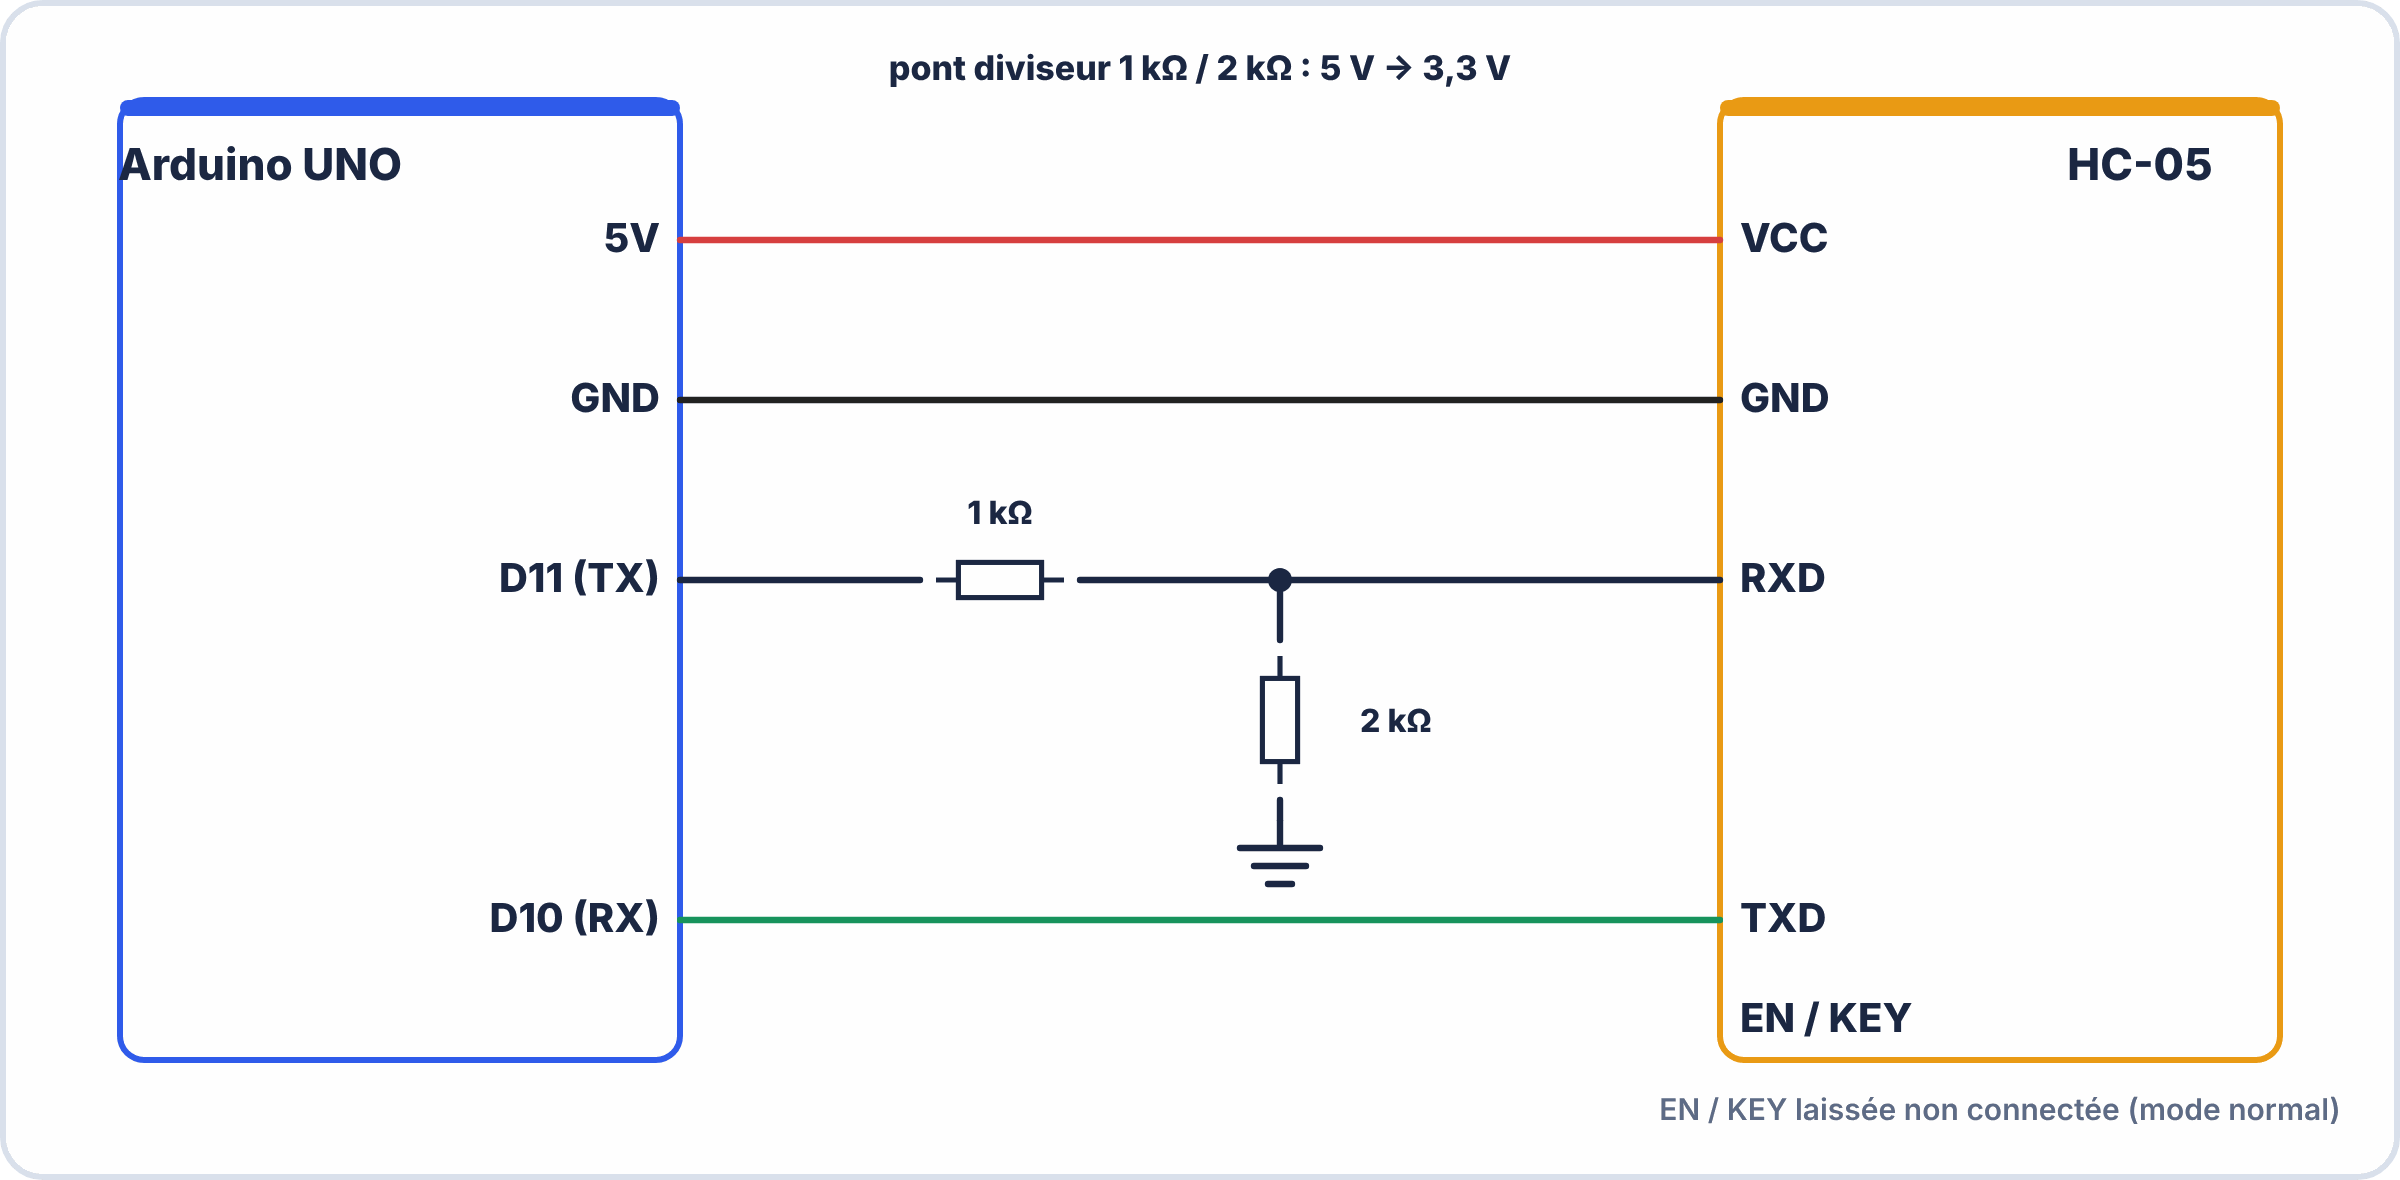
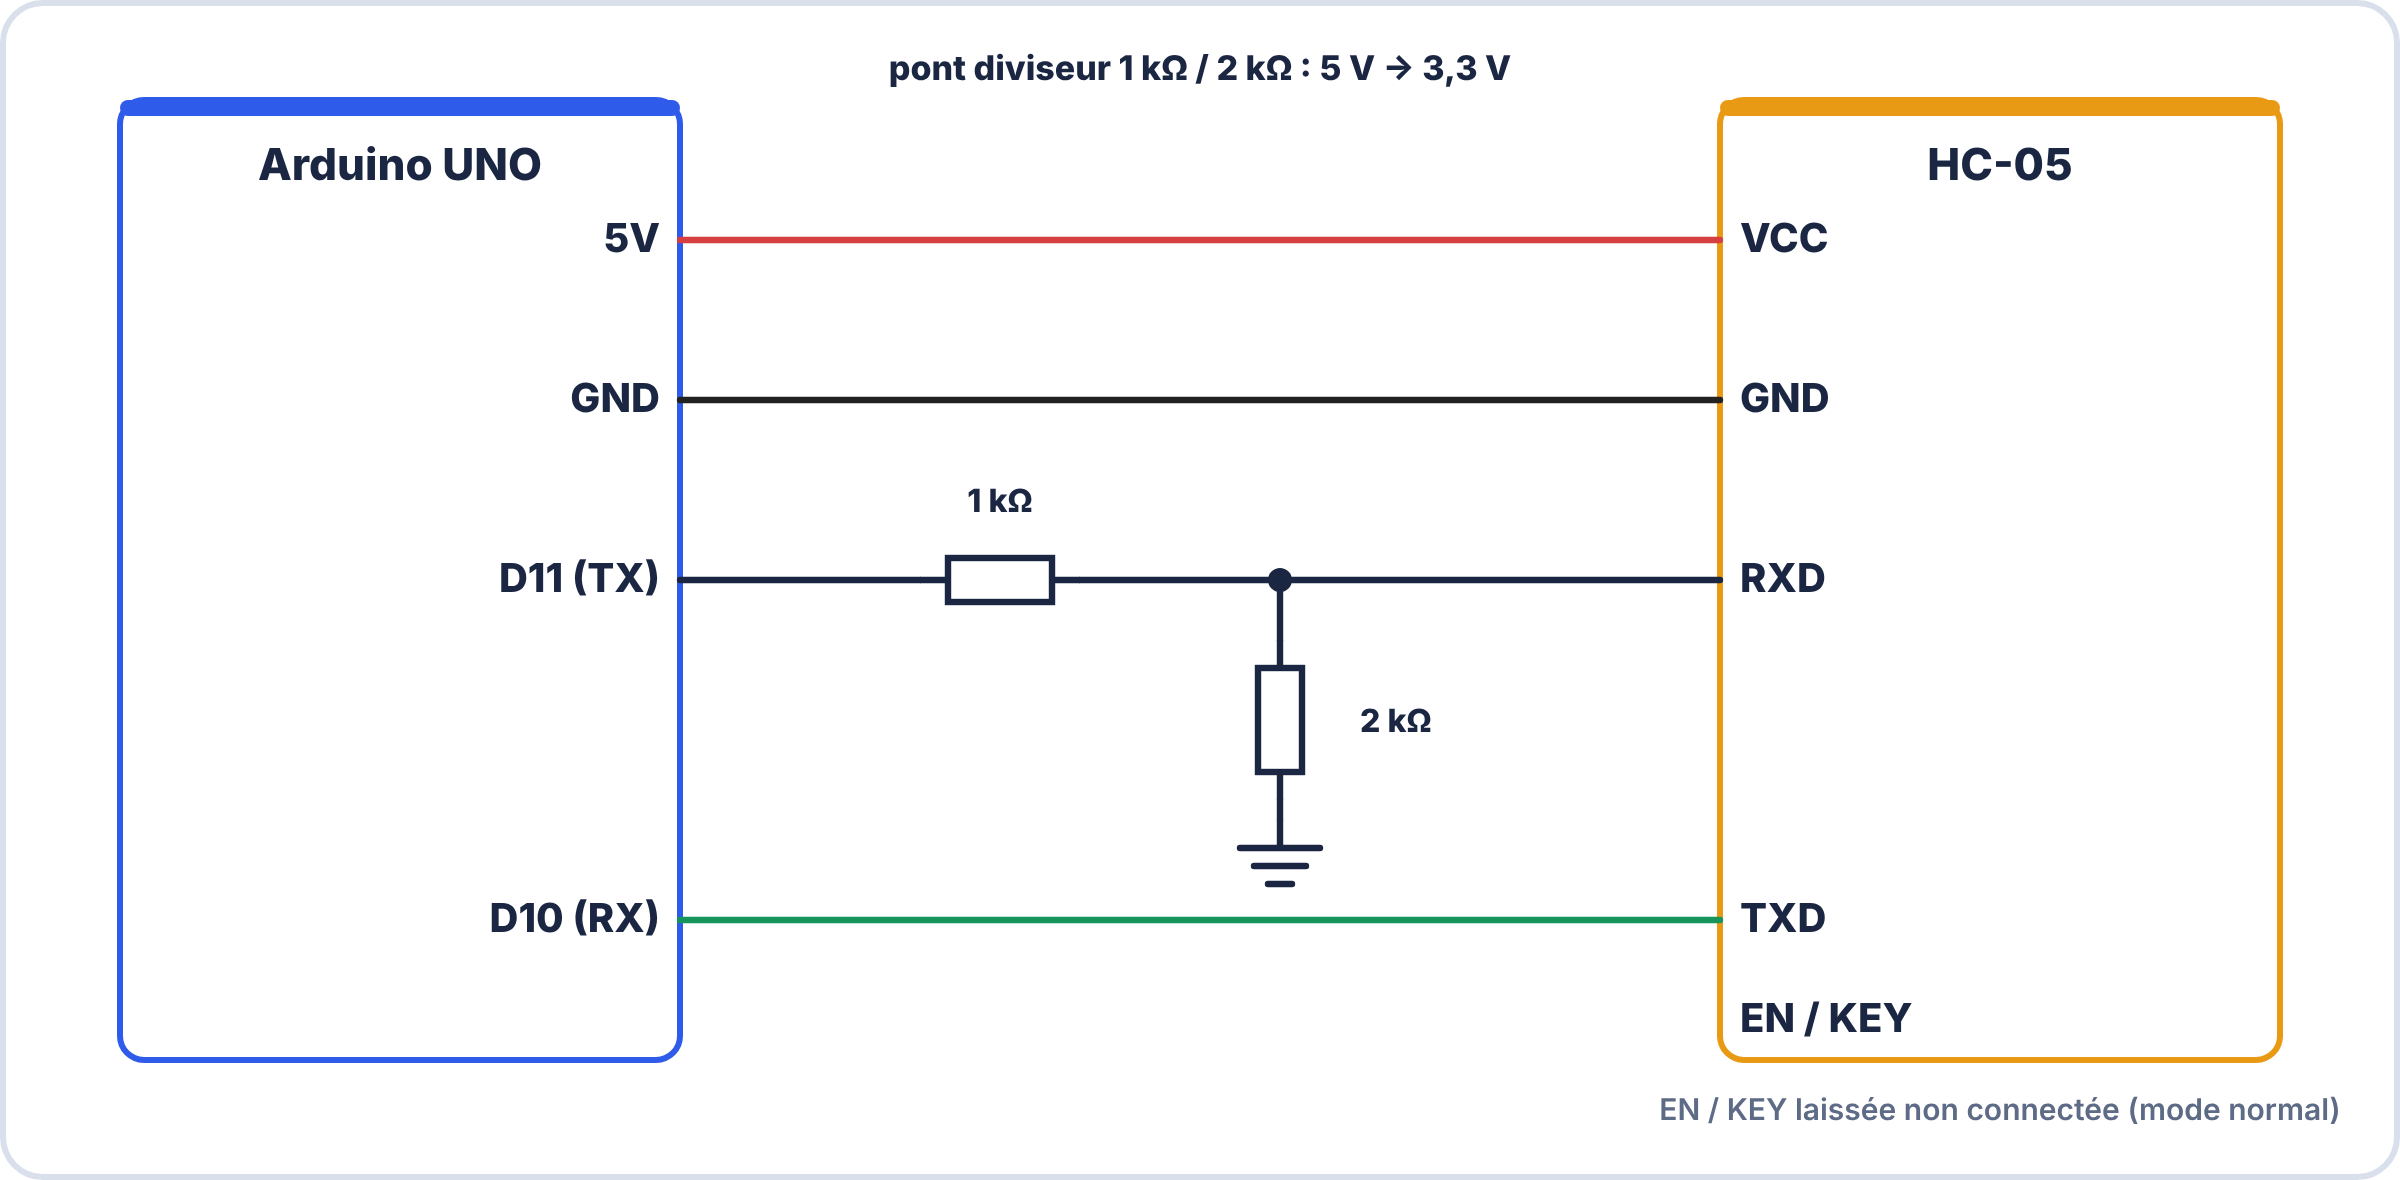
Schémas HC-05, DHT11 et domotique : résistances raccordées aux fils (broches des symboles), étiquettes recentrées
Claude-Session: https://claude.ai/code/session_018Ln2Xo12prChdSPrkdSn9D

diff --git a/outils/illustrations-e2/figs_sec2.py b/outils/illustrations-e2/figs_sec2.py
@@ -90,7 +90,7 @@ def f_dht11():
     for i in range(7): o += f'<rect x="{190+i*22}" y="130" width="12" height="90" rx="4" fill="#2878a8"/>'
     for i in range(4): o += f'<rect x="{185+i*45}" y="250" width="8" height="90" fill="url(#metalH)"/>' + badge(189 + i * 45, 365, i + 1, BLUE, 15)
     for i, l in enumerate(("VCC", "DATA", "NC", "GND")): o += T(189 + i * 45, 405, l, 14, 700, INK)
-    o += s_wire([(189, 440), (189, 480), (234, 480)]) + sym("R", 270, 480, s=0.6) + T(270, 462, "10 kΩ", 13, 700, INK) + s_wire([(306, 480), (324, 480), (324, 440)], INK, 3)
+    o += s_wire([(189, 440), (189, 480), (246, 480)]) + sym("R", 270, 480, s=0.6) + T(270, 462, "10 kΩ", 13, 700, INK) + s_wire([(294, 480), (324, 480), (324, 440)], INK, 3)
     o += T(300, 520, "résistance pull-up entre VCC et DATA", 14, 600, MUTED)
     o += f'<g filter="url(#shs)"><rect x="740" y="130" width="300" height="190" rx="8" fill="#2f9a68"/></g><rect x="800" y="150" width="120" height="110" rx="8" fill="#3b9bd6"/>'
     for i in range(5): o += f'<rect x="{818+i*20}" y="165" width="10" height="70" rx="3" fill="#2878a8"/>'
@@ -177,12 +177,12 @@ def f_moniteur():
 
 
 def f_cablage_hc05():
-    o = block(60, 50, 280, 480, "", None, BLUE) + block(860, 50, 280, 480, "", None, AMBER) + T(130, 90, "Arduino UNO", 22, 800, INK) + T(1070, 90, "HC-05", 22, 800, INK)
+    o = block(60, 50, 280, 480, "", None, BLUE) + block(860, 50, 280, 480, "", None, AMBER) + T(200, 90, "Arduino UNO", 22, 800, INK) + T(1000, 90, "HC-05", 22, 800, INK)
     for l, y in (("5V", 120), ("GND", 200), ("D11 (TX)", 290), ("D10 (RX)", 460)): o += T(330, y + 6, l, 20, 800, INK, "end")
     for l, y in (("VCC", 120), ("GND", 200), ("RXD", 290), ("TXD", 460), ("EN / KEY", 510)): o += T(870, y + 6, l, 20, 800, INK, "start")
     o += s_wire([(340, 120), (860, 120)], RED) + s_wire([(340, 200), (860, 200)], "#222")
-    o += s_wire([(340, 290), (460, 290)]) + sym("R", 500, 290, s=0.8) + s_wire([(540, 290), (860, 290)]) + dot(640, 290) + T(500, 262, "1 kΩ", 16, 800, INK)
-    o += s_wire([(640, 290), (640, 320)]) + sym("R", 640, 360, 90, s=0.8) + s_wire([(640, 400), (640, 410)]) + gnd(640, 410) + T(680, 366, "2 kΩ", 16, 800, INK, "start")
+    o += s_wire([(340, 290), (460, 290)]) + sym("R", 500, 290) + s_wire([(540, 290), (860, 290)]) + dot(640, 290) + T(500, 256, "1 kΩ", 16, 800, INK)
+    o += s_wire([(640, 290), (640, 320)]) + sym("R", 640, 360, 90) + s_wire([(640, 400), (640, 410)]) + gnd(640, 410) + T(680, 366, "2 kΩ", 16, 800, INK, "start")
     o += s_wire([(860, 460), (340, 460)], GREEN)
     o += T(1000, 560, "EN / KEY laissée non connectée (mode normal)", 15, 600, MUTED)
     o += T(600, 40, "pont diviseur 1 kΩ / 2 kΩ : 5 V → 3,3 V", 17, 800, INK)

diff --git a/outils/illustrations-e2/figs_sec3.py b/outils/illustrations-e2/figs_sec3.py
@@ -130,8 +130,8 @@ def f_schema_complet():
     o += block(40, 340, 230, 120, "", None, AMBER) + T(155, 380, "LCD I2C", 20, 800, INK) + T(52, 425, "SDA", 13, 800, "#2f5bea", "start") + T(52, 445, "SCL", 13, 800, "#e99a14", "start")
     o += s_wire([(270, 425), (440, 360)], "#2f5bea") + s_wire([(270, 445), (440, 420)], "#e99a14")
     o += block(940, 100, 220, 200, "", None, AMBER) + T(1050, 140, "HC-05", 20, 800, INK) + T(952, 156, "TXD", 14, 800, INK, "start") + T(952, 236, "RXD", 14, 800, INK, "start")
-    o += s_wire([(760, 150), (940, 150)], GREEN) + s_wire([(760, 230), (810, 230)]) + sym("R", 840, 230, s=0.6) + s_wire([(864, 230), (940, 230)]) + dot(900, 230) + T(840, 205, "R2 = 1 kΩ", 13, 800, INK)
-    o += s_wire([(900, 230), (900, 260)]) + sym("R", 900, 285, 90, s=0.45) + s_wire([(900, 303), (900, 320)]) + gnd(900, 320) + T(925, 291, "R3 = 2 kΩ", 13, 800, INK, "start")
+    o += s_wire([(760, 150), (940, 150)], GREEN) + s_wire([(760, 230), (816, 230)]) + sym("R", 840, 230, s=0.6) + s_wire([(864, 230), (940, 230)]) + dot(900, 230) + T(840, 205, "R2 = 1 kΩ", 13, 800, INK)
+    o += s_wire([(900, 230), (900, 267)]) + sym("R", 900, 285, 90, s=0.45) + s_wire([(900, 303), (900, 320)]) + gnd(900, 320) + T(925, 291, "R3 = 2 kΩ", 13, 800, INK, "start")
     return figure(W, 600, o)
 
 
